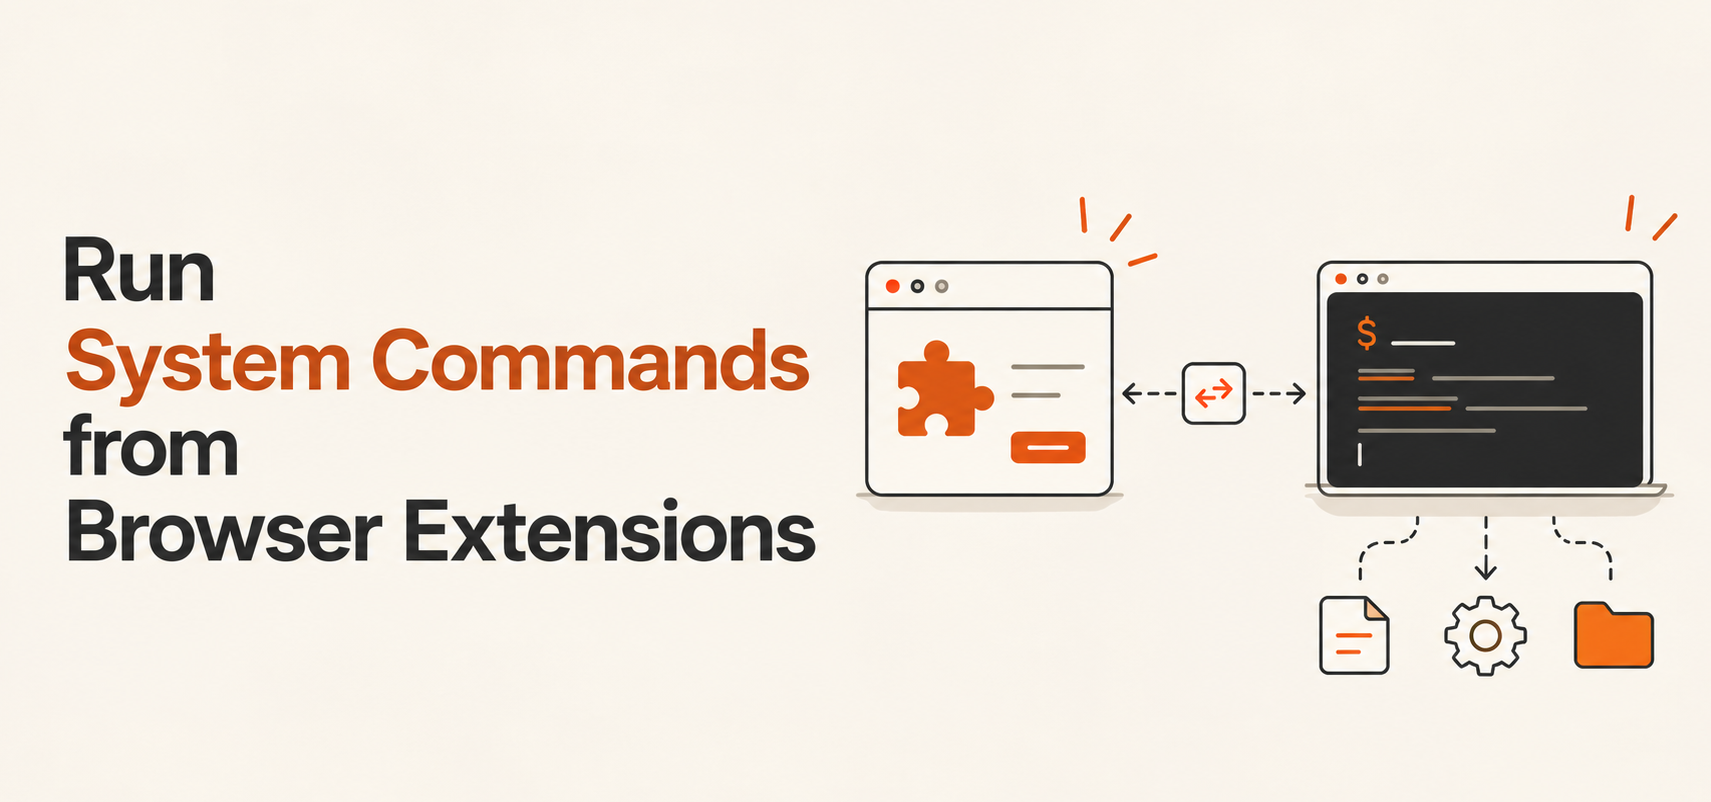
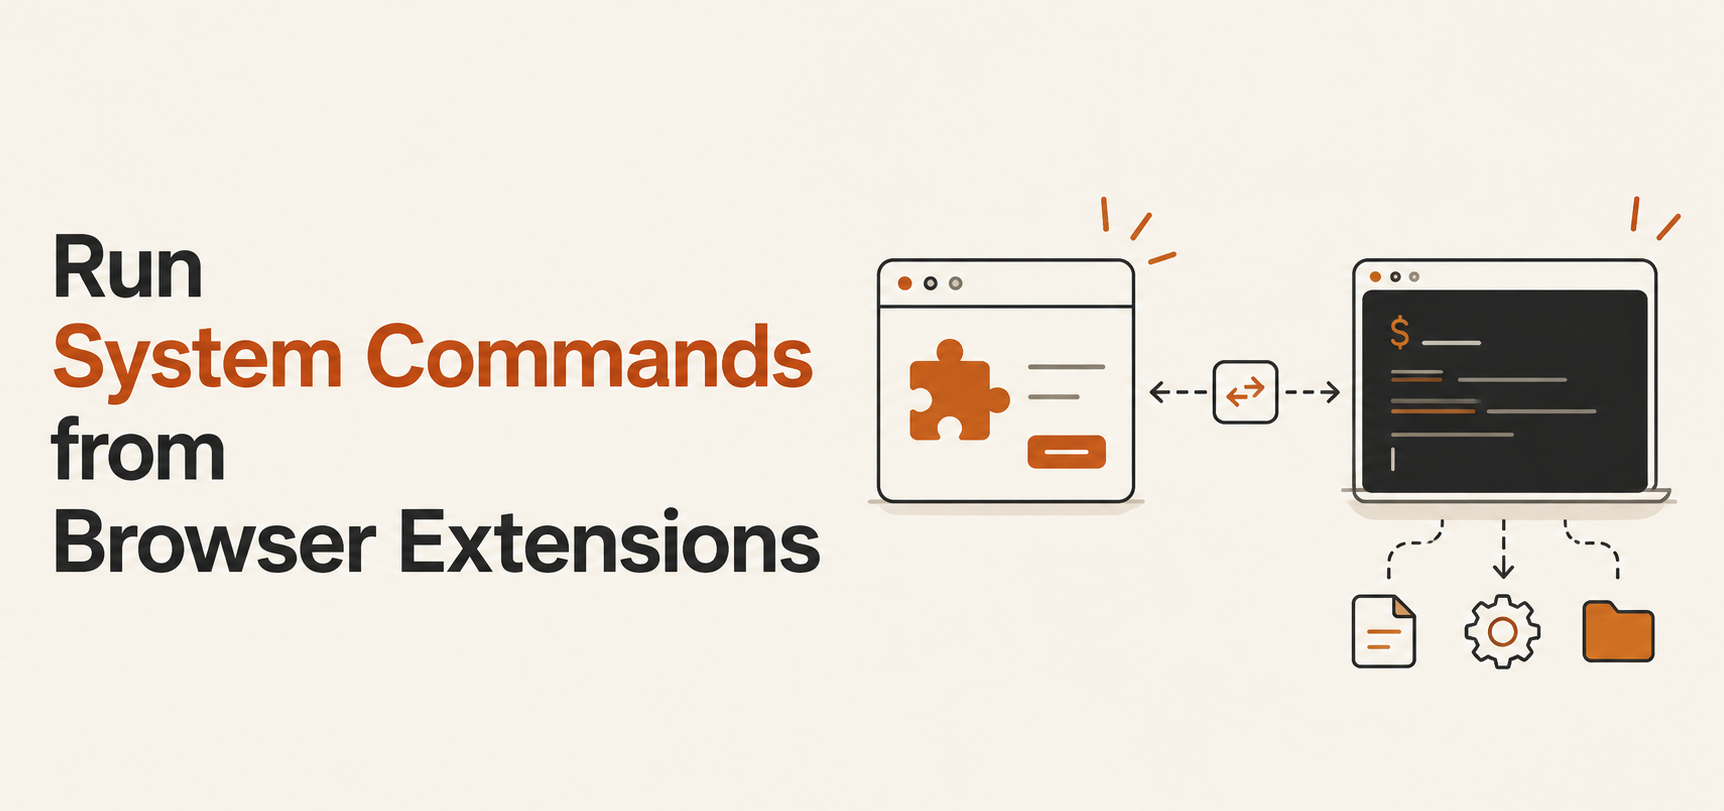
update og image pipeline

diff --git a/src/utils/open-graph.ts b/src/utils/open-graph.ts
@@ -4,6 +4,12 @@ import parseFrontmatter from 'gray-matter';
 import fs from "node:fs/promises";
 import path from 'path';
 import satori from 'satori';
+import sharp from 'sharp';
+
+const OG_WIDTH = 1200;
+const OG_HEIGHT = 630;
+// WhatsApp refuses previews over 500 KB; stay comfortably under it.
+const OG_MAX_BYTES = 300 * 1024;
 
 const render = (title: string) => ({
   type: "div",
@@ -112,8 +118,10 @@ const og = (): AstroIntegration => ({
               const basePath = process.cwd();
               const finalDir = path.join(basePath, 'dist', 'blogs', slug);
               await fs.mkdir(finalDir, { recursive: true });
-              await fs.copyFile(customOg, path.join(finalDir, 'og.png'));
-              logger.info(`Copied custom og.png for ${slug}`);
+              const raw = await fs.readFile(customOg);
+              const optimized = await optimizeOgImage(raw, slug, logger);
+              await fs.writeFile(path.join(finalDir, 'og.png'), optimized);
+              logger.info(`Optimized custom og.png for ${slug} (${(optimized.length / 1024).toFixed(0)} KB)`);
               continue;
             } catch (e) {
               // no custom og.png, proceed with generation
@@ -132,8 +140,8 @@ const og = (): AstroIntegration => ({
           const { data: { title } } = parseFrontmatter(file)
 
           const svg = await satori(render(title), {
-            width: 1200,
-            height: 630,
+            width: OG_WIDTH,
+            height: OG_HEIGHT,
             fonts: [
               {
                 name: 'JetBrains Mono',
@@ -146,16 +154,19 @@ const og = (): AstroIntegration => ({
           const resvg = new Resvg(svg, {
             fitTo: {
               mode: 'width',
-              value: 1200,
+              value: OG_WIDTH,
             },
           });
 
           const basePath = process.cwd();
           const finalDir = path.join(basePath, 'dist', 'blogs', slug);
+          await fs.mkdir(finalDir, { recursive: true });
 
+          const rawPng = resvg.render().asPng();
+          const optimized = await optimizeOgImage(Buffer.from(rawPng), slug, logger);
           await fs.writeFile(
             path.join(finalDir, 'og.png'), // Output file name and path
-            resvg.render().asPng(),
+            optimized,
           );
         }
       }
@@ -166,6 +177,65 @@ const og = (): AstroIntegration => ({
     },
   },
 });
+
+async function optimizeOgImage(
+  input: Buffer,
+  slug: string,
+  logger: { warn: (msg: string) => void },
+): Promise<Buffer> {
+  // Never crop: shrink to fit inside 1200x630 and pad the remainder with the
+  // image's own edge color so the full artwork survives with exact dimensions.
+  const background = await sampleEdgeColor(input);
+
+  // Pass 1: palette PNG (usually smallest for text/diagrams).
+  let out = await sharp(input)
+    .flatten({ background })
+    .resize(OG_WIDTH, OG_HEIGHT, { fit: 'contain', background })
+    .png({ compressionLevel: 9, palette: true })
+    .toBuffer();
+
+  // Pass 2: photographic screenshots compress poorly as palette PNG;
+  // fall back to quality-capped truecolor PNG which is still < 500 KB.
+  if (out.length > OG_MAX_BYTES) {
+    out = await sharp(input)
+      .flatten({ background })
+      .resize(OG_WIDTH, OG_HEIGHT, { fit: 'contain', background })
+      .png({ compressionLevel: 9, quality: 80 })
+      .toBuffer();
+  }
+
+  if (out.length > OG_MAX_BYTES) {
+    logger.warn(
+      `OG image for ${slug} is ${(out.length / 1024).toFixed(0)} KB, over WhatsApp's ~500 KB preview limit`,
+    );
+  }
+
+  return out;
+}
+
+async function sampleEdgeColor(input: Buffer): Promise<{ r: number; g: number; b: number }> {
+  const meta = await sharp(input).metadata();
+  const width = meta.width ?? 1;
+  const height = meta.height ?? 1;
+  const corners = [
+    { left: 0, top: 0 },
+    { left: Math.max(0, width - 1), top: 0 },
+    { left: 0, top: Math.max(0, height - 1) },
+    { left: Math.max(0, width - 1), top: Math.max(0, height - 1) },
+  ];
+  const samples = await Promise.all(
+    corners.map(({ left, top }) =>
+      sharp(input).extract({ left, top, width: 1, height: 1 }).raw().toBuffer(),
+    ),
+  );
+  // Per-channel median: robust even if one corner lands on text or an icon.
+  const median = (values: number[]) => values.sort((a, b) => a - b)[Math.floor(values.length / 2)];
+  return {
+    r: median(samples.map((s) => s[0])),
+    g: median(samples.map((s) => s[1])),
+    b: median(samples.map((s) => s[2])),
+  };
+}
 
 async function getAvailableYears() {
   const srcBasePath = path.join('src', 'collections', 'blogs');
